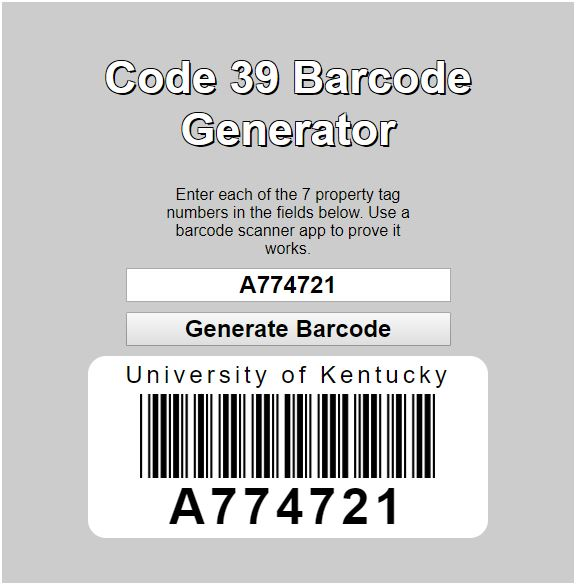
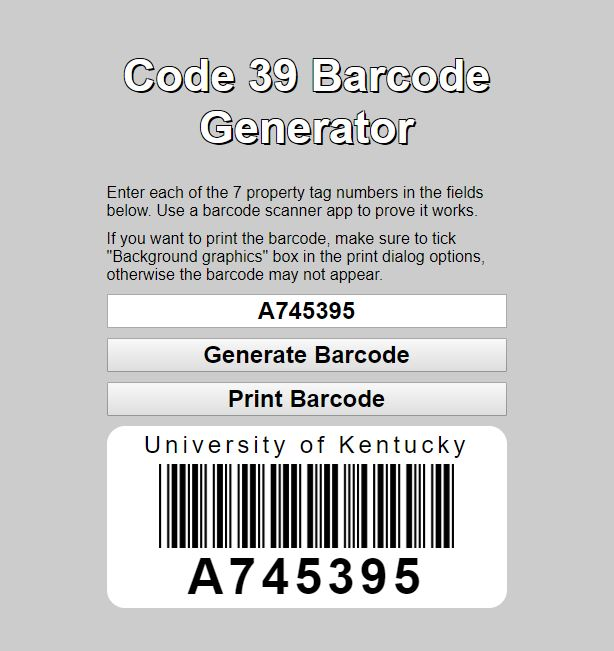
Updated style and print functionality

Changed region(s): [[0.125, 0.0925, 0.875, 0.9555], [0.0, 0.0, 1.0, 1.0]]

diff --git a/js/barcode-generator.js b/js/barcode-generator.js
@@ -55,26 +55,34 @@ $("#Btn").click(function() {
       "backgroundImage",
       "url('img/star.jpg')"
     );
+	
+	// Make the CSS changes
     $(".flex").css("backgroundColor", "#fff");
 	$("#barcode").css("display", "block");
 	$(".container1").css("display", "block");
     $(".container2").css("display", "block");
+	$(".printBtn").css("display", "block");
+	
     var form = $(".upcNum").not(".container");
-    var vals = form
-      .map(function() {
+    var vals = form.map(function() {
         var value = $.trim(this.value);
         return value ? value : undefined;
-      })
-      .get();
+      }).get();
 
     var label = vals.join("");
     $(".container2").html(label.toUpperCase());
-    $(".container2").lettering();
   }
 });
 
 //Fix the barcode scanner from opening up the downloads window
 document.addEventListener('keydown', function(event) {
-    if( event.keyCode == 13 || event.keyCode == 17 || event.keyCode == 74 )
-      event.preventDefault();
-  });
+    if( event.keyCode == 13 || event.keyCode == 17 || event.keyCode == 74 ) {
+		event.preventDefault();
+	}
+});
+
+//Print the barcode
+$('input.printBtn').click(function(){
+    window.print();
+    return false;
+});

diff --git a/index.html b/index.html
@@ -13,9 +13,11 @@
 
 		  <h1>Code 39 Barcode Generator</h1>
 		  <p>Enter each of the 7 property tag numbers in the fields below. Use a barcode scanner app to prove it works.</p>
+		  <p>If you want to print the barcode, make sure to tick "Background graphics" box in the print dialog options, otherwise the barcode may not appear.</p>
 
 		  <input id="barcodeNumber" class="upcNum" type="text" maxlength="7">
 		  <input id="Btn" type="submit" value="Generate Barcode">
+		  <input id="Btn" class="printBtn" type="submit" value="Print Barcode">
 		  <div id="barcode">
 			  <div class="container1">University of Kentucky</div>
 			  <div class="flex">
